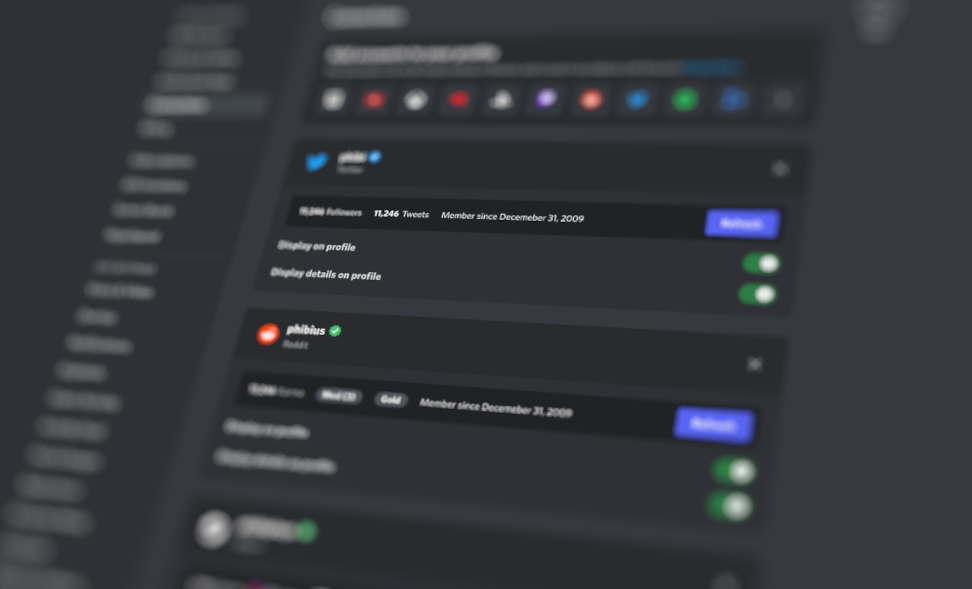
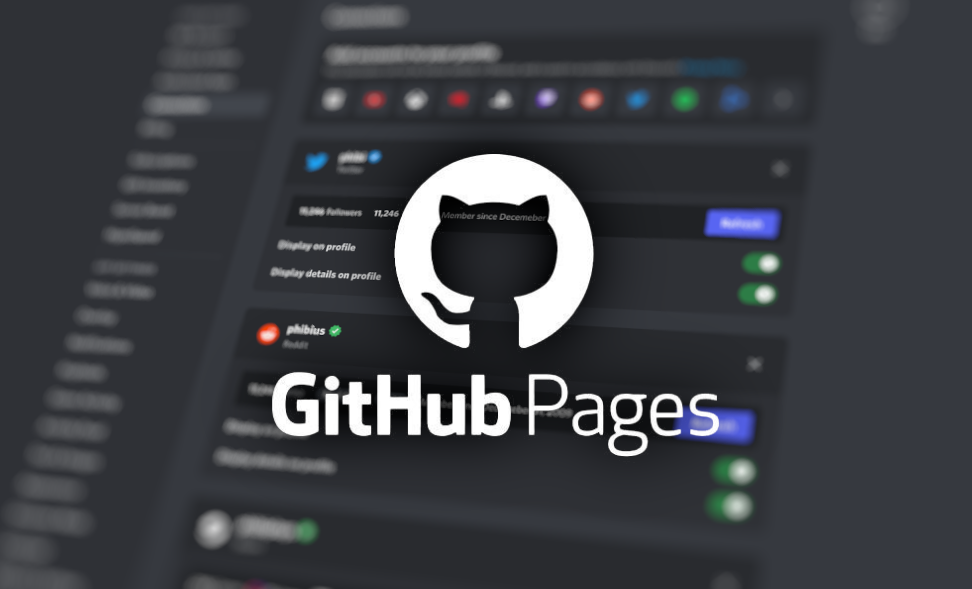
post updated

Changed region(s): [[0.2469, 0.2445, 0.7716, 0.7946]]

diff --git a/_posts/2024-11-28-디스코드-도메인-추가.md b/_posts/2024-11-28-디스코드-도메인-추가.md
@@ -1,14 +1,15 @@
 ---
 title: GitHub Pages 도메인을 디스코드 프로필에 추가하기
 description: 자신의 GitHub Pages 도메인을 디스코드에 연결하고 프로필에 추가하는 방법
-date: 2025-11-27 20:00:00 +0900
+date: 2024-11-28 20:00:00 +0900
 categories: [Discord]
 tags: [Discord, 디스코드, GitHub, 깃허브]
+image:
+  path: /assets/img/20241128/blurred_connections.png
[1 lines of base64/hex data omitted]
 ---
 
 ## 개요
-
-![흐린_연결탭](/assets/img/20241128/blurred_connections.png)
 
 디스코드는 외부 계정을 연결하고 프로필에 추가할 수 있는 **'연결'** 기능이 있다. 디스코드의 **사용자 설정**에서 **연결**이라는 탭에 들어가면 모든 연결을 추가, 제거 및 관리할 수 있다.
 
@@ -22,11 +23,11 @@ tags: [Discord, 디스코드, GitHub, 깃허브]
 
 <https://github.com/oyepriyansh/.well-known>
 
-디스코드에게 도메인을 인증받기 위해서 먼저 위 링크의 **리포지토리**를 포크해야 한다. 링크에 접속한 뒤 **사진에 보이는 링크**를 클릭하여 리포지토리를 포크한다.
+디스코드에게 도메인을 인증받기 위해서 먼저 위 링크의 **repository**를 **fork**해야 한다. 링크에 접속한 뒤 **사진에 보이는 링크**를 클릭하여 repository를 복제한다.
 
 ![포크](/assets/img/20241128/fork.png)
 
-> 리포지토리 이름을 변경하지 않고 `.well-known` 으로 유지해야 한다.
+> Repository 복제시 **이름을 변경하지 않고** `.well-known` 으로 유지해야 한다.
 {: .prompt-warning}
 
 ## 2. Discord에 도메인 연결하기
@@ -41,4 +42,29 @@ tags: [Discord, 디스코드, GitHub, 깃허브]
 
 ![도메인_연결2](/assets/img/20241128/verify_domain.png)
 
-더 적을 예정
+콘텐츠에 `dh=...`로 시작하는 문자열을 **복사**한다.
+
+## 3. discord 파일 수정하기
+
+아까 복제했던 repository로 들어가서 `discord` 파일에 들어간다.
+
+![디스코드_파일](/assets/img/20241128/discord_file.png)
+
+들어가서 오른쪽에 있는 **연필 모양 아이콘**을 눌러 파일을 수정한다.
+
+![수정_버튼](/assets/img/20241128/edit_button.png)
+
+아까 디스코드에서 복사했던 문자열을 그대로 **붙여넣기** 한 후 우측 상단의 `Commit changes...` 버튼을 눌러 commit한다.
+
+![커밋_버튼1](/assets/img/20241128/commit_button.png)
+![커밋_버튼2](/assets/img/20241128/commit_button2.png)
+
+이후 **Actions 탭**에 들어가 GitHub Pages가 **빌드**되고 **배포**될 때까지 기다린다.
+
+![빌드](/assets/img/20241128/waiting_build.png)
+
+## 4. 마무리
+
+다시 디스코드로 돌아와서 **인증하기** 버튼을 눌러 인증이 되었는지 확인한다.
+
+![도메인](/assets/img/20241128/domain.png)
